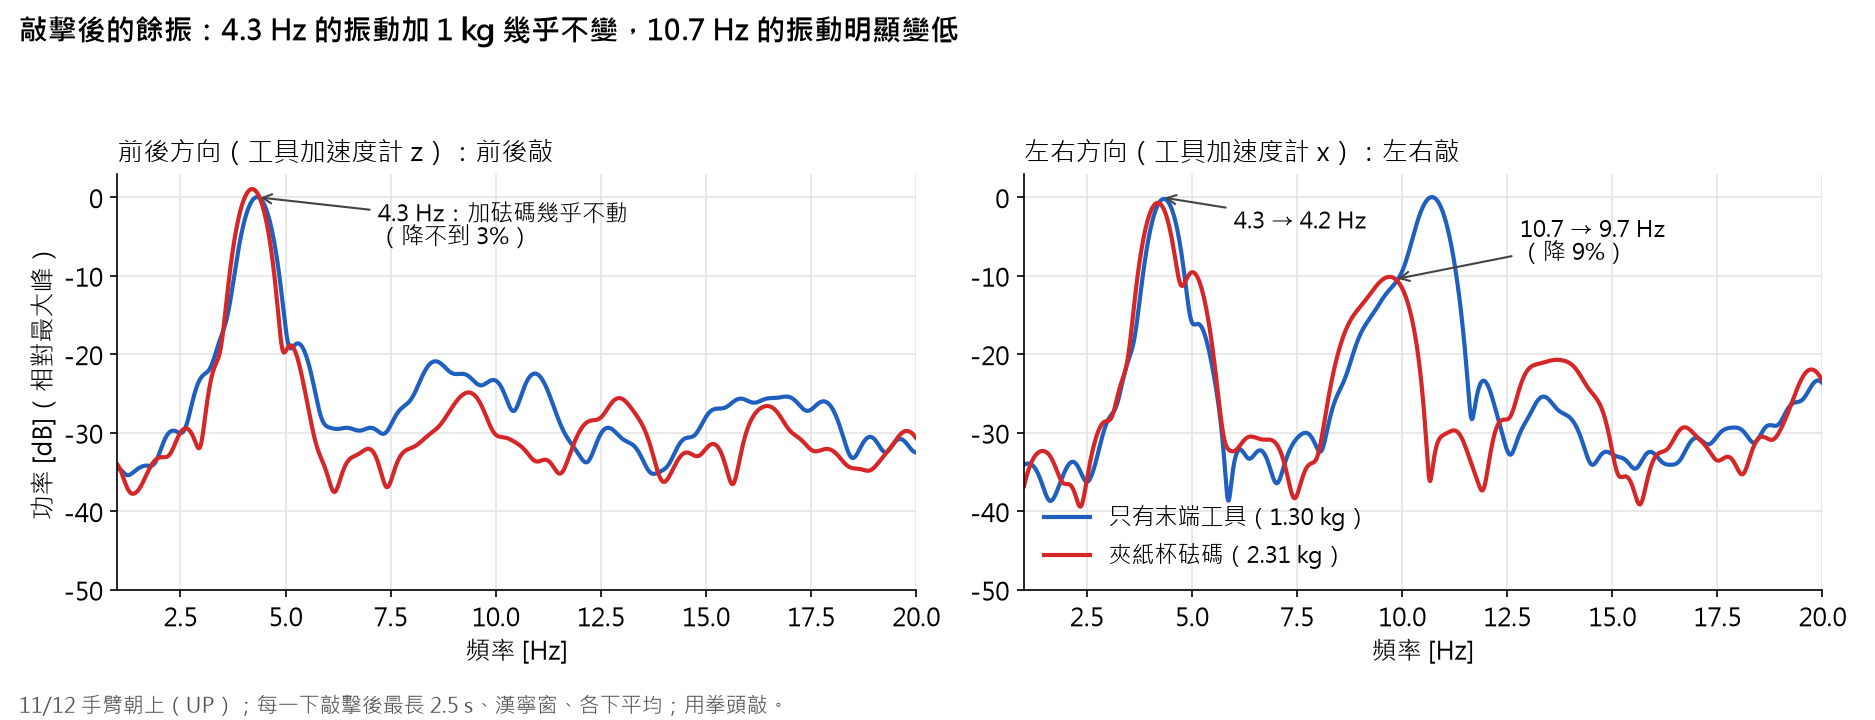
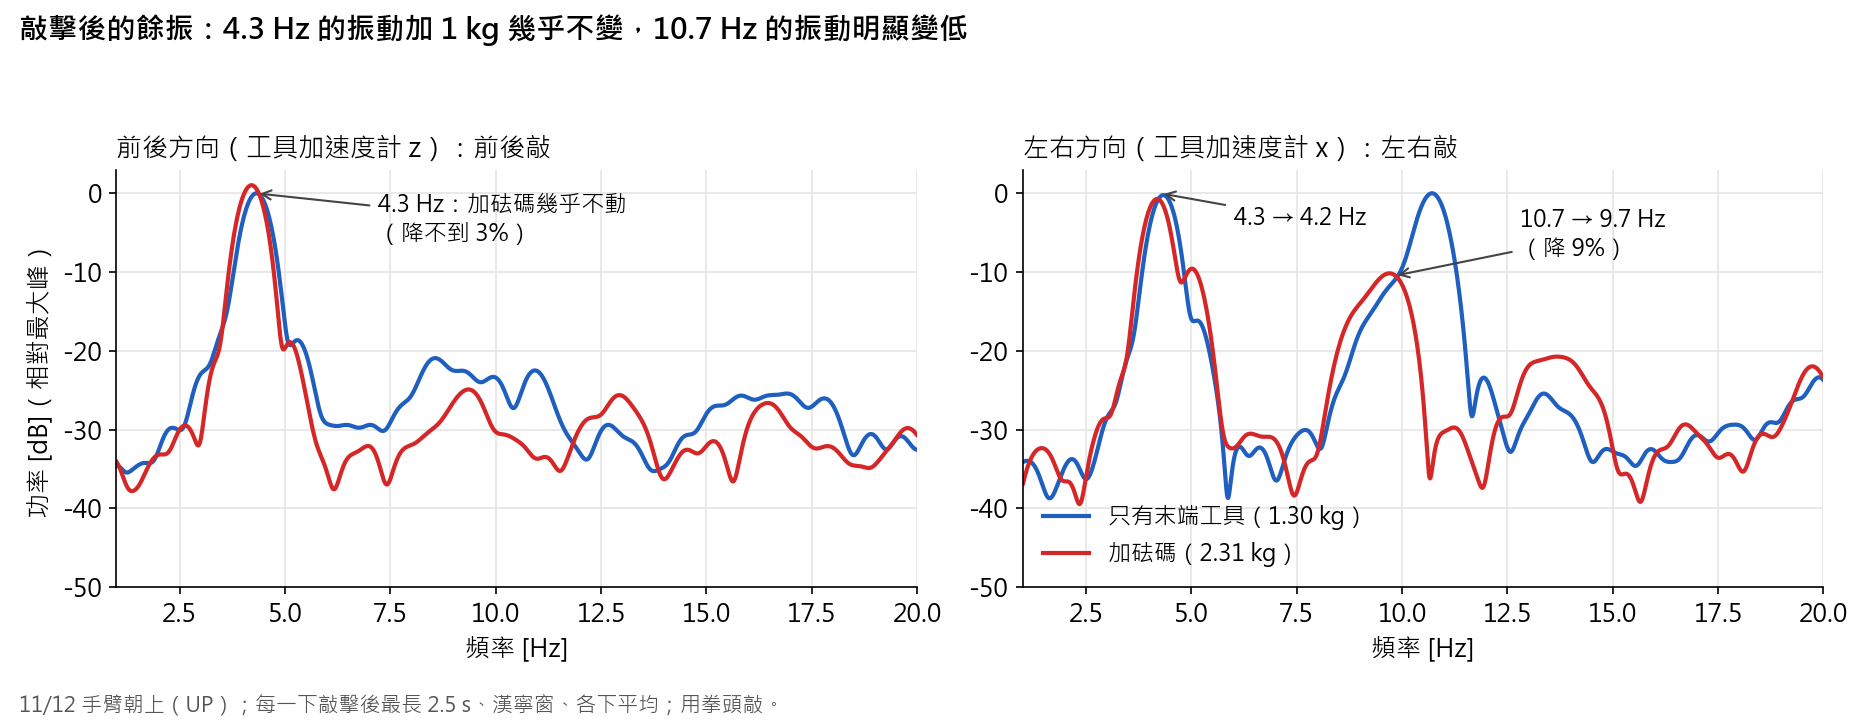
11/18 report: call the 1.008 kg load a weight (砝碼), not a paper cup

diff --git a/analysis/1112/report_figs_1118.py b/analysis/1112/report_figs_1118.py
@@ -1,6 +1,6 @@
 """11/18 報告的圖（11/12 上機，手臂朝上 UP）。
-圖 1：J1 速度調變，J 對頻率：11/5 與 11/12 重複（1.30 kg），加紙杯砝碼（2.31 kg）。
-圖 2：紙杯砝碼造成的 ΔJ 對頻率：J1（加單一彈簧模型）、J2，和控制器 ΔJ_model 比。
+圖 1：J1 速度調變，J 對頻率：11/5 與 11/12 重複（1.30 kg），加砝碼（2.31 kg）。
+圖 2：砝碼造成的 ΔJ 對頻率：J1（加單一彈簧模型）、J2，和控制器 ΔJ_model 比。
 圖 3：換算比例（N·m/A）的各種估計，和目前用的 13.64 比。
 圖 4：敲擊測試的餘振頻譜（11/12 已畫好的 w1112_tap_spectrum.png，複製改名）。
 圖 5：J2 定速（B、Tc）與 J2 速度調變各條件的 J。
@@ -56,7 +56,7 @@ def cond_mean(run, ci):
 # ---------------- 圖 1：J1 速度調變，J 對頻率 ----------------
 fig, ax = plt.subplots(figsize=(10, 5.9))
 runs = (("1105_p130", GRAY, "11/5　1.30 kg", "o"), ("1112_p130", BLUE, "11/12　1.30 kg", "o"),
-        ("1112_p231", ORANGE, "11/12　2.31 kg（加紙杯 1.008 kg）", "s"))
+        ("1112_p231", ORANGE, "11/12　2.31 kg（加砝碼 1.008 kg）", "s"))
 fmean = {}
 for k, (run, col, lab, mk) in enumerate(runs):
     pts = [cond_mean(run, ci) for ci in range(6)]
@@ -91,7 +91,7 @@ fig.text(0.01, 0.005, "手臂朝上，調變段中心在重力零點 -92°，巡
 fig.tight_layout(rect=(0, 0.06, 1, 1))
 f1 = save(fig, "w1118_fig1_j1_velmod_freq.png")
 
-# ---------------- 圖 2：紙杯砝碼的 ΔJ 對頻率 ----------------
+# ---------------- 圖 2：砝碼的 ΔJ 對頻率 ----------------
 # J1 單一彈簧模型（j1_1112_fit.py 的「整個慣量在彈簧後」）：J_meas = s·J/(1 − J·ω²/k)，砝碼加在 J 上
 S_FIT, J_FIT, K_FIT, DJ_FIT = 1.095, 5.5467, 6897.9, 0.905
 def dj_spring(f):
@@ -136,7 +136,7 @@ ax.set_title("J2（肘）", loc="left", fontsize=12.5, color=INK)
 ax.set_xlim(0.5, 3.4); ax.set_ylim(0, 0.8)
 ax.set_xticks([1, 2, 3]); ax.set_xticklabels(["1 Hz", "2 Hz", "3 Hz"])
 style(ax)
-fig.suptitle("圖 2　同一個 1 kg 紙杯：頻率越高，量到的 ΔJ 越大（J1 只有 1 Hz 接近控制器的值）", x=0.01, ha="left",
+fig.suptitle("圖 2　同一個 1 kg 砝碼：頻率越高，量到的 ΔJ 越大（J1 只有 1 Hz 接近控制器的值）", x=0.01, ha="left",
              fontsize=13.5, color=INK)
 fig.text(0.01, 0.005, "手臂朝上，同一天、同一方向相減後兩個方向加權平均（實心：大振幅；空心：小振幅）。電流 × 13.64。"
          "控制器 ΔJ_model：target_moment 對 target_qdd 回歸，2.31 kg 減 1.30 kg。\n"
@@ -146,13 +146,13 @@ fig.tight_layout(rect=(0, 0.07, 1, 0.95))
 f2 = save(fig, "w1118_fig2_cup_dJ.png")
 
 # ---------------- 圖 3：換算比例的各種估計 ----------------
-mgh1 = M_CUP * G * J1B["h"]                            # 紙杯離 J1 軸的高度 h（重心由控制器 ΔJ_model 反推，d ≈ 56 mm）
+mgh1 = M_CUP * G * J1B["h"]                            # 砝碼離 J1 軸的高度 h（重心由控制器 ΔJ_model 反推，d ≈ 56 mm）
 dS1 = float(np.mean(J1B["dS"]))
 K1 = KT * mgh1 / abs(dS1)
 c1d = J1["constvel_diag"]; c2 = J2["constvel"]
 est = [  # (標籤, 值, 顏色, 說明)
-    ("J1 紙杯重力斜率", K1, BLUE, f"m·g·h {mgh1:.2f} ÷ 量測 Δ斜率 {abs(dS1):.2f}"),
-    ("J2 紙杯重力斜率", J2C["Kcal"], GREEN, f"m·g·h {J2C['mgh']:.2f} ÷ 量測 Δ斜率 5.43"),
+    ("J1 砝碼重力斜率", K1, BLUE, f"m·g·h {mgh1:.2f} ÷ 量測 Δ斜率 {abs(dS1):.2f}"),
+    ("J2 砝碼重力斜率", J2C["Kcal"], GREEN, f"m·g·h {J2C['mgh']:.2f} ÷ 量測 Δ斜率 5.43"),
     ("J1 彈簧模型擬合", KT / S_FIT, BLUE, "圖 2 左的模型參數 s"),
     ("J1 定速 DIAG 斜率", c1d["K_slope"], GRAY, "力矩對角度斜率，假設控制器重力模型正確"),
     ("J2 定速 UP 斜率", c2["K_slope"], GRAY, "同上"),
@@ -174,8 +174,8 @@ for s in ("top", "right"):
 ax.grid(axis="x", alpha=1, ls=(0, (4, 3))); ax.set_axisbelow(True)
 ax.set_title("圖 3　換算比例：用已知質量量到的都在 12.0～12.5，比目前用的 13.64 低約 10%", loc="left",
              fontsize=13.5, pad=12, color=INK)
-fig.text(0.01, 0.005, "彩色：只用已知質量（紙杯 1.008 kg）與幾何，不需要控制器的模型；灰色：要假設控制器的重力模型正確。"
-         "\n控制器自己的重力斜率與 m·g·h 相比：J1 1.00、J2 1.03（控制器知道紙杯重量）。", ha="left", va="bottom",
+fig.text(0.01, 0.005, "彩色：只用已知質量（砝碼 1.008 kg）與幾何，不需要控制器的模型；灰色：要假設控制器的重力模型正確。"
+         "\n控制器自己的重力斜率與 m·g·h 相比：J1 1.00、J2 1.03（控制器知道砝碼重量）。", ha="left", va="bottom",
          fontsize=9, color=INK2, linespacing=1.5)
 fig.tight_layout(rect=(0, 0.06, 1, 1))
 f3 = save(fig, "w1118_fig3_conversion_ratio.png")

diff --git a/analysis/1112/tap_spec_1112.py b/analysis/1112/tap_spec_1112.py
@@ -1,4 +1,4 @@
-# 離線：敲擊後餘振頻譜，有無紙杯砝碼比較；不連線、不動手臂
+# 離線：敲擊後餘振頻譜，有無砝碼比較；不連線、不動手臂
 import sys, glob, socket
 socket.socket = None
 import numpy as np, matplotlib
@@ -27,7 +27,7 @@ cases = [("前後方向（工具加速度計 z）：前後敲", ["111246", "1113
 for ax, (title, a, b, i) in zip(axs, cases):
     Pa, Pb = spec(a, i), spec(b, i); m = (fr >= 1) & (fr <= 20); ref = Pa[m].max()
     ax.plot(fr[m], 10*np.log10(Pa[m] / ref), color=C0, lw=2, label="只有末端工具（1.30 kg）")
-    ax.plot(fr[m], 10*np.log10(Pb[m] / ref), color=C1, lw=2, label="夾紙杯砝碼（2.31 kg）")
+    ax.plot(fr[m], 10*np.log10(Pb[m] / ref), color=C1, lw=2, label="加砝碼（2.31 kg）")
     ax.set_title(title, loc="left", fontsize=12.5); ax.set_xlabel("頻率 [Hz]"); ax.set_xlim(1, 20); ax.set_ylim(-50, 3)
     ax.grid(True, which="major", color="#e5e5e5"); ax.spines[["top", "right"]].set_visible(False)
 axs[0].set_ylabel("功率 [dB]（相對最大峰）")

diff --git a/docs/REPORT_1118.md b/docs/REPORT_1118.md
@@ -1,11 +1,11 @@
-# 11/18 週報：11/12 上機結果（J1 重複、紙杯砝碼、J2 第一次、敲擊測試）
+# 11/18 週報：11/12 上機結果（J1 重複、砝碼、J2 第一次、敲擊測試）
 
-> 正式報告在 Notion「研究筆記資料庫」：11/18 報告：紙杯砝碼校正 J1、J2 換算比例，J2 第一次鑑別。這份是 repo 內的備份。
+> 正式報告在 Notion「研究筆記資料庫」：11/18 報告：砝碼校正 J1、J2 換算比例，J2 第一次鑑別。這份是 repo 內的備份。
 
 ## 本週重點
 
 1. **J1 的慣量隨頻率上升，兩週都看得到**。同樣 1.30 kg：1 Hz、2 Hz 與 11/5 相差約 +0.4，3 Hz 相差 +1.1（圖 1）。
-2. **同一個 1 kg 紙杯，頻率越高量到的 ΔJ 越大**。J1 在 1 Hz 量到 0.64～0.92（控制器 0.86），3 Hz 量到 2.1～2.3（圖 2）。某處有彈性的單一彈簧模型（固有頻率約 5.6 Hz）大致能解釋。J2 也一樣，而且 1 Hz 就已經是控制器的 1.7 倍。
+2. **同一個 1 kg 砝碼，頻率越高量到的 ΔJ 越大**。J1 在 1 Hz 量到 0.64～0.92（控制器 0.86），3 Hz 量到 2.1～2.3（圖 2）。某處有彈性的單一彈簧模型（固有頻率約 5.6 Hz）大致能解釋。J2 也一樣，而且 1 Hz 就已經是控制器的 1.7 倍。
 3. **換算比例很可能比 13.64 低約 10%**。用已知質量的重力斜率量到 J1 12.03、J2 12.10（圖 3）。
 4. **敲擊測試**：餘振主要在 4.3 Hz，加 1 kg 只降不到 3%；10.7 Hz 的振動降了 9%（圖 4）。和第 2 點的彈簧模型還對不起來，11/19 在 DIAG 再敲一次。
 5. **J2 第一次上機**：
@@ -14,7 +14,7 @@
 
 ## 11/12 做了什麼
 
-除了 DIAG 的 J1 定速，其餘都在手臂朝上（UP）姿態。末端工具 1.30 kg；加紙杯砝碼 1.008 kg 時為 2.31 kg。
+除了 DIAG 的 J1 定速，其餘都在手臂朝上（UP）姿態。末端工具 1.30 kg；加砝碼 1.008 kg 時為 2.31 kg。
 
 | 項目 | 姿態 | 負載 | 做了什麼 |
 |------|------|------|----------|
@@ -43,7 +43,7 @@
 - **兩週一致的地方**：J 都隨頻率上升，正反轉一致；控制器的 J_model 兩週都是 6.44，不隨頻率變。
 - J 隨頻率上升時，「J1 的慣量是多少」沒有單一答案，所以要先弄清楚上升的原因（第 2、4 點）。
 
-## 2. 紙杯砝碼：ΔJ 隨頻率變大
+## 2. 砝碼：ΔJ 隨頻率變大
 
 ![圖 2](report_1118/w1118_fig2_cup_dJ.png)
 
@@ -53,14 +53,14 @@
 |---|---|---|---|---|---|---|
 | ΔJ | 0.64 ± 0.19 | 0.92 ± 0.12 | 1.21 ± 0.14 | 1.26 ± 0.10 | 2.09 ± 0.13 | 2.32 ± 0.10 |
 
-- 控制器的 ΔJ_model 是 0.86。從這個值反推，紙杯重心離法蘭約 56 mm，紙杯離 J1 軸 0.92 m，m·ρ² ≈ 0.86。
+- 控制器的 ΔJ_model 是 0.86。從這個值反推，砝碼重心離法蘭約 56 mm，砝碼離 J1 軸 0.92 m，m·ρ² ≈ 0.86。
 - 1 Hz 的 ΔJ 和控制器的值差不多，2 Hz 是 1.4 倍，3 Hz 是 2.5 倍。
 - **單一彈簧模型**：關節輸出側之後（連桿、底座或桌子，推測）有彈性時，量到的慣量是 J_量 = J / (1 − J·ω²/k)，頻率越接近固有頻率越大，而且慣量越大的放大越多。
   - 用 1.30、2.31 kg 共 12 個條件一起擬合，得到 J = 5.55、k = 6898 N·m/rad、換算修正 s = 1.095。
   - 固有頻率 1.30 kg 為 5.6 Hz，2.31 kg 為 5.2 Hz。
   - χ² = 42（自由度 9），大致符合，不算完美。1 Hz 的模型值 1.06，比量測高。
 
-**J2**：ΔJ 為 0.43（1 Hz）、0.45（2 Hz）、0.60（3 Hz）。控制器的 ΔJ_model 是 0.26，m·ρ² 約 0.26（紙杯離 J2 軸 0.51 m）。
+**J2**：ΔJ 為 0.43（1 Hz）、0.45（2 Hz）、0.60（3 Hz）。控制器的 ΔJ_model 是 0.26，m·ρ² 約 0.26（砝碼離 J2 軸 0.51 m）。
 
 - J2 也隨頻率上升，但 1 Hz 就已經是控制器的 1.7 倍；換算比例改成 12.1 也還有 1.5 倍。
 - J2 的低頻偏高，單一彈簧模型解釋不了，原因還不清楚。
@@ -69,10 +69,10 @@
 
 ![圖 3](report_1118/w1118_fig3_conversion_ratio.png)
 
-- **做法**：手臂朝上時，紙杯造成的重力力矩對角度的斜率是 m·g·h，h 是紙杯在 J 軸上方的高度，只由質量與幾何決定。量到的電流斜率 × 13.64 再除以 m·g·h，就得到 13.64 要修正多少。
+- **做法**：手臂朝上時，砝碼造成的重力力矩對角度的斜率是 m·g·h，h 是砝碼在 J 軸上方的高度，只由質量與幾何決定。量到的電流斜率 × 13.64 再除以 m·g·h，就得到 13.64 要修正多少。
   - J1：m·g·h = 9.05 N·m/rad，量到 10.26（12 個條件的標準差 0.28）→ **12.03**。
   - J2：m·g·h = 4.81，量到 5.43（標準差 0.24）→ **12.10 ± 0.15**。
-  - 控制器自己的重力斜率與 m·g·h 一致：J1 比值 1.00、J2 比值 1.03（控制器知道紙杯的重量）。
+  - 控制器自己的重力斜率與 m·g·h 一致：J1 比值 1.00、J2 比值 1.03（控制器知道砝碼的重量）。
 - **其他方法**：圖 2 的彈簧模型擬合得到 12.46。定速時力矩對角度的斜率（要假設控制器的重力模型正確）得到 11.65～11.82。
 - **如果真的是 12.1**：所有用 13.64 算的 J、B、Tc 都要乘 0.887。
   - 例如 J1 1 Hz 的 6.58 會變成 5.84，比控制器的 6.44 低。
@@ -82,9 +82,9 @@
 
 ![圖 4](report_1118/w1118_fig4_tap_spectrum.png)
 
-- **4.3 Hz**：前後敲、左右敲的工具加速度都以 4.2～4.4 Hz 為主（阻尼比約 0.02～0.04）。加 1 kg 紙杯後只降到 4.2 Hz，不到 3%。
-- **10.7 Hz**：左右敲時另有 10.7 Hz 的振動，加紙杯後降到 9.7 Hz，降 9%。
-- **和第 2 點的關係**：彈簧模型預測，加紙杯後 J1 的固有頻率會從 5.6 降到 5.2 Hz（降 7%）。4.3 Hz 的振動幾乎不受紙杯影響，比較像底座或桌子；10.7 Hz 才像手臂本身。
+- **4.3 Hz**：前後敲、左右敲的工具加速度都以 4.2～4.4 Hz 為主（阻尼比約 0.02～0.04）。加 1 kg 砝碼後只降到 4.2 Hz，不到 3%。
+- **10.7 Hz**：左右敲時另有 10.7 Hz 的振動，加砝碼後降到 9.7 Hz，降 9%。
+- **和第 2 點的關係**：彈簧模型預測，加砝碼後 J1 的固有頻率會從 5.6 降到 5.2 Hz（降 7%）。4.3 Hz 的振動幾乎不受砝碼影響，比較像底座或桌子；10.7 Hz 才像手臂本身。
 - 所以「J 隨頻率上升是彈性造成的」還不能確定。
 - 11/19 在 DIAG 再敲一次，如果 4.3 Hz 不隨姿態改變，就更可能是底座或桌子。
 
@@ -117,7 +117,7 @@
 
 1. **J 隨頻率上升的原因**：彈性模態、控制器的加速度追隨（3 Hz 的追隨增益 1.09～1.15），或電流裡有和加速度同相的其他成分，目前分不出來。
 2. **J1 3 Hz 兩週差 1.1**：溫度差 0.8 °C 不太可能造成這麼大的差。追隨增益也變了，可能和控制器的狀態有關。
-3. **換算比例**：兩個關節都是 12.0～12.1，但只有一個已知質量（紙杯）、一個姿態。
+3. **換算比例**：兩個關節都是 12.0～12.1，但只有一個已知質量（砝碼）、一個姿態。
 4. **J2 低頻的 ΔJ 偏高**：1 Hz 就是控制器的 1.7 倍。
 
 ## 下週（11/19 上機）
